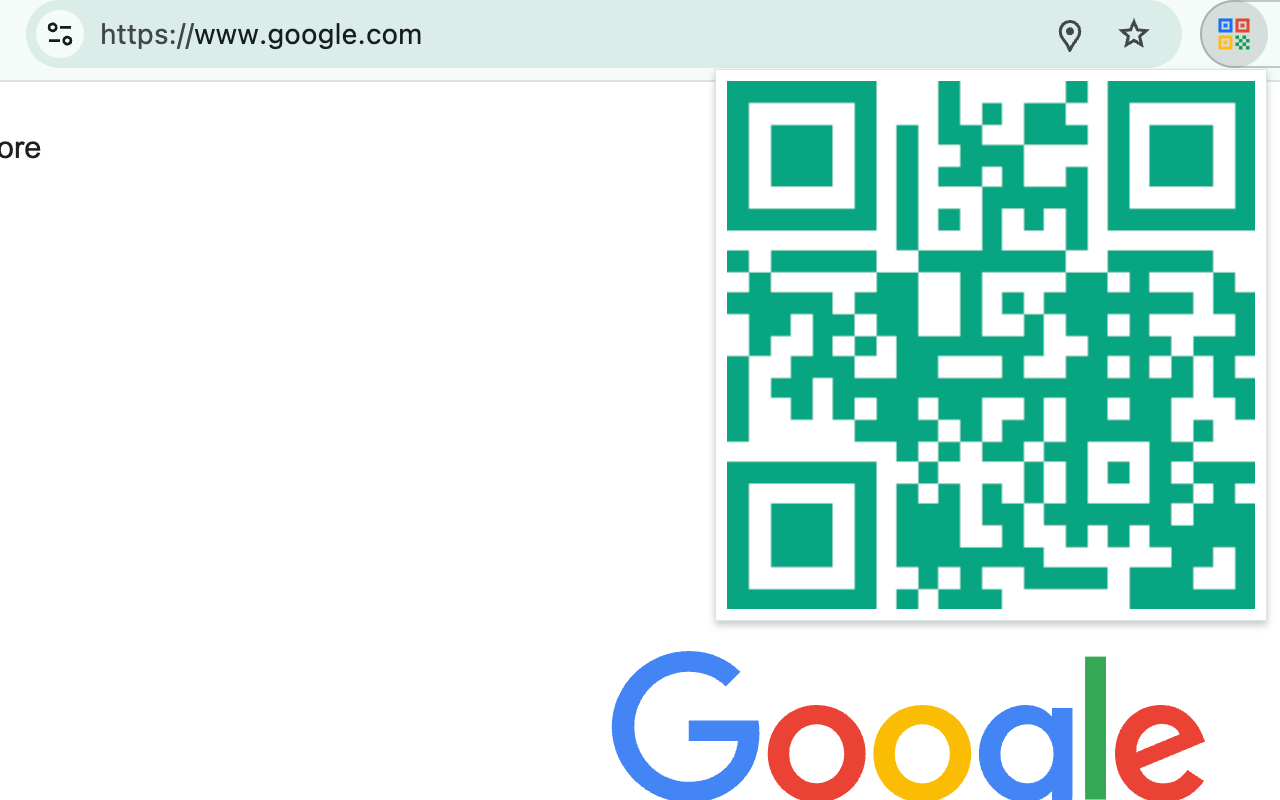
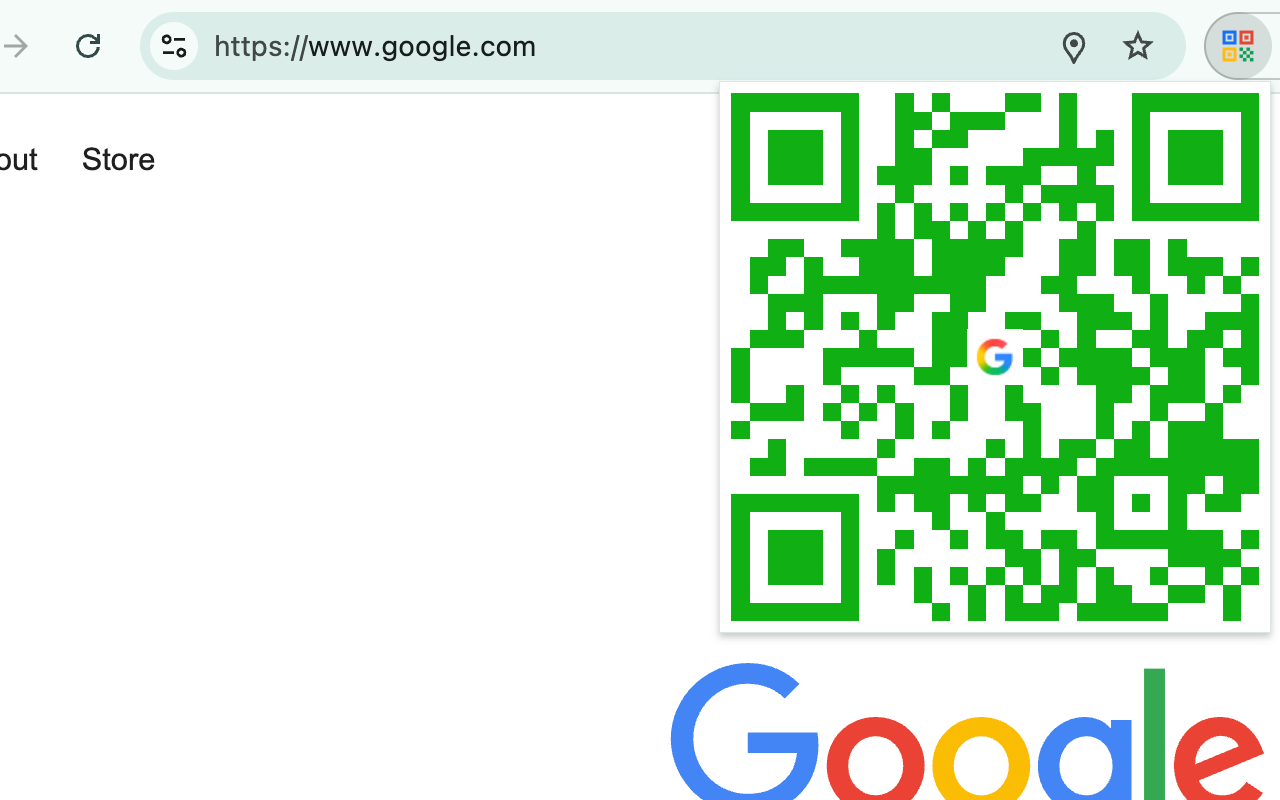
Bump version to v2.1.1, update manifest description and screenshot (#10)

diff --git a/wxt.config.ts b/wxt.config.ts
@@ -1,24 +1,27 @@
-import { defineConfig } from 'wxt';
+import { defineConfig } from "wxt";
 
 export default defineConfig({
   manifest: {
-    name: 'Colorful QRCode',
-    version: '2.1.0',
-    description: 'simple & colorful QR code generator',
-    permissions: ['tabs'],
+    name: "Colorful QRCode",
+    version: "2.1.1",
+    description:
+      "Generate colorful QR codes for any page — works offline, no tracking",
+    permissions: ["tabs"],
     action: {
-      default_title: 'Colorful QRCode',
-      default_icon: 'icon/icon.png',
+      default_title: "Colorful QRCode",
+      default_icon: "icon/icon.png",
     },
-    icons: { '128': 'icon/icon.png', '256': 'icon/icon-256.png' },
+    icons: { "128": "icon/icon.png", "256": "icon/icon-256.png" },
     browser_specific_settings: {
       gecko: {
-        id: 'colorful-qrcode@l3au',
+        id: "colorful-qrcode@l3au",
         // eslint-disable-next-line @typescript-eslint/no-explicit-any
-        ...({ data_collection_permissions: { required: ['none'], optional: [] } } as any),
+        ...({
+          data_collection_permissions: { required: ["none"], optional: [] },
+        } as any),
       },
     },
   },
-  srcDir: 'src',
-  outDir: '.output',
+  srcDir: "src",
+  outDir: ".output",
 });

diff --git a/CLAUDE.md b/CLAUDE.md
@@ -6,7 +6,7 @@ This file provides context for AI assistants working in this repository.
 
 **Colorful QRCode** is a Chrome/Firefox browser extension (Manifest V3) that generates colorful QR codes for the current tab's URL or custom user-provided text. It uses randomly generated dark colors. All QR generation happens locally in the browser — no network requests are made.
 
-- **Version:** 2.1.0
+- **Version:** 2.1.1
 - **Author:** L3au
 - **Chrome Web Store:** Published, offline-capable
 
